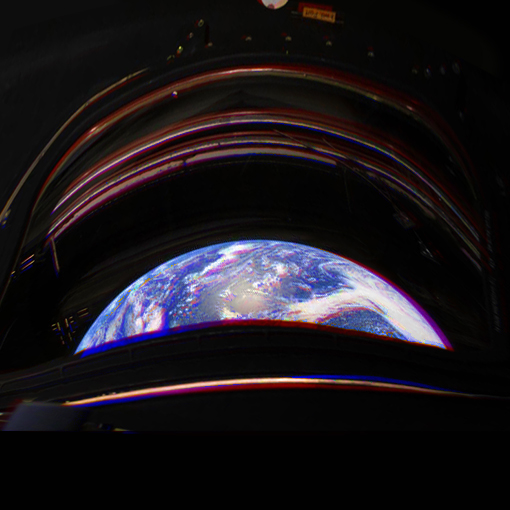
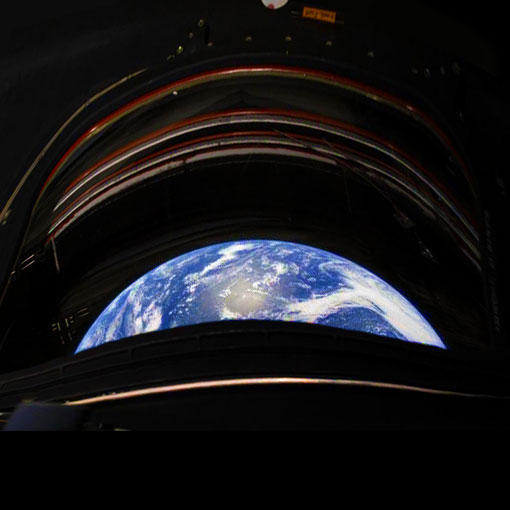
Save website changes

diff --git a/styles.css b/styles.css
@@ -30,9 +30,52 @@ body {
   display: flex;
   justify-content: space-between;
   align-items: center;
+  gap: 12px;
   font-size: 20px;
   font-weight: bold;
   text-transform: uppercase;
+}
+
+.banner-weather {
+  position: relative;
+  display: flex;
+  align-items: center;
+  gap: 6px;
+  font-size: 16px;
+  font-weight: bold;
+  text-transform: lowercase;
+  cursor: help;
+}
+
+.banner-weather img {
+  height: 24px;
+  width: auto;
+  display: block;
+}
+
+.banner-tooltip {
+  position: absolute;
+  top: calc(100% + 8px);
+  right: 0;
+  background: #ffffff;
+  color: #000000;
+  border: 2px solid #000000;
+  padding: 4px 8px;
+  font-size: 12px;
+  font-weight: bold;
+  text-transform: none;
+  white-space: nowrap;
+  opacity: 0;
+  visibility: hidden;
+  transition: opacity 0.2s ease, visibility 0.2s ease;
+  pointer-events: none;
+  z-index: 5;
+}
+
+.banner-weather:hover .banner-tooltip,
+.banner-weather:focus-within .banner-tooltip {
+  opacity: 1;
+  visibility: visible;
 }
 
 .topbox {
@@ -67,8 +110,16 @@ body {
   inset: 0;
   opacity: 0;
   transform: translateX(100%);
-  transition: transform 0.8s ease, opacity 0.8s ease;
-  animation: slide-transition 32s infinite;
+  z-index: 0;
+  transition: opacity 1s ease, transform 1s ease;
+  pointer-events: none;
+}
+
+.carousel-slide.active {
+  opacity: 1;
+  transform: translateX(0);
+  z-index: 1;
+  pointer-events: auto;
 }
 
 .carousel-slide img {
@@ -85,38 +136,15 @@ body {
   right: 0;
   bottom: 50px;
   padding: 6px 12px;
-  background: #000000;
+  background: #0000aa;
   color: #ffffff;
-  font-size: 13px;
+  font-size: 20px;
   font-family: "Times New Roman", serif;
   text-transform: uppercase;
   letter-spacing: 0.5px;
   text-align: center;
 }
 
-.carousel-slide:nth-child(1) { animation-delay: 0s; }
-.carousel-slide:nth-child(2) { animation-delay: 8s; }
-.carousel-slide:nth-child(3) { animation-delay: 16s; }
-.carousel-slide:nth-child(4) { animation-delay: 24s; }
-
-@keyframes slide-transition {
-  0%, 8% {
-    opacity: 0;
-    transform: translateX(100%);
-  }
-  8%, 20% {
-    opacity: 1;
-    transform: translateX(0);
-  }
-  20%, 28% {
-    opacity: 1;
-    transform: translateX(0);
-  }
-  28.01%, 100% {
-    opacity: 0;
-    transform: translateX(-100%);
-  }
-}
 
 .tiny {
   margin: 0 0 6px;

diff --git a/index.html b/index.html
@@ -11,7 +11,11 @@
     <div class="wrapper">
       <div class="banner">
         <strong>WELCOME TO FROGMOUTH</strong>
-      
+        <div class="banner-weather">
+          <img src="images/WEATHER.png" alt="Weather icon" />
+          <span>WEATHER</span>
+          <span class="banner-tooltip">Please make all weather requests a day in advance </span>
+        </div>
       </div>
 
       <div class="topbox">
@@ -26,15 +30,19 @@
           </div>
           <div class="carousel-slide">
             <img src="images/DEPICTIONENVIRONMENT.gif" alt="Town hall building" />
-            <div class="carousel-caption">Preserving Our Environment</div>
+            <div class="carousel-caption">Beautiful skies all year round</div>
           </div>
           <div class="carousel-slide">
             <img src="images/DEPICTIONFOOD.jpg" alt="Community park event" />
-            <div class="carousel-caption">Fresh Food and Local Events</div>
+            <div class="carousel-caption">Great food</div>
+          </div>
+          <div class="carousel-slide">
+            <img src="images/DEPICTIONNEIGHBORHOODWATCH.png" alt="Neighborhood watch" />
+            <div class="carousel-caption">Safe</div>
           </div>
           <div class="carousel-slide">
             <img src="images/DEPICTIONNEIGHBOR.jpg" alt="Downtown market" />
-            <div class="carousel-caption">Neighbors and Community Life</div>
+            <div class="carousel-caption">The best neighbors</div>
           </div>
         </div>
       </div>
@@ -68,8 +76,7 @@
             <h2>Featured Notice</h2>
             <p>
               Replace this box with your own announcement, image, or special event notice.
-            </p>
-            <div class="image-box">[insert image here]</div>
+           
           </div>
 
           <div class="panel signup-panel">
@@ -99,9 +106,27 @@
     </div>
 
     <script>
+      const slides = Array.from(document.querySelectorAll('.carousel-slide'));
+      let currentSlide = 0;
+
+      function showSlide(index) {
+        slides.forEach((slide, slideIndex) => {
+          slide.classList.toggle('active', slideIndex === index);
+        });
+      }
+
+      if (slides.length > 0) {
+        showSlide(0);
+        setInterval(() => {
+          currentSlide = (currentSlide + 1) % slides.length;
+          showSlide(currentSlide);
+        }, 6000);
+      }
+
       const form = document.getElementById('email-signup-form');
       const message = document.getElementById('signup-message');
       const emailInput = document.getElementById('email');
+      const recipientEmail = '[email redacted]';
 
       function readEmails() {
         const stored = localStorage.getItem('town-email-list');
@@ -118,7 +143,26 @@
         }
       }
 
-      form.addEventListener('submit', (event) => {
+      async function forwardEmail(email) {
+        try {
+          await fetch('https://formsubmit.co/ajax/' + recipientEmail, {
+            method: 'POST',
+            headers: {
+              'Content-Type': 'application/json',
+              'Accept': 'application/json'
+            },
+            body: JSON.stringify({
+              email: email,
+              subject: 'New signup from The Town website',
+              message: 'A new email signup was submitted from the website.'
+            })
+          });
+        } catch (error) {
+          console.error('Could not forward signup email:', error);
+        }
+      }
+
+      form.addEventListener('submit', async (event) => {
         event.preventDefault();
 
         const email = emailInput.value.trim();
@@ -127,8 +171,9 @@
         }
 
         saveEmail(email);
+        await forwardEmail(email);
         const count = readEmails().length;
-        message.textContent = `Thanks! ${email} has been added. We now have ${count} subscriber${count === 1 ? '' : 's'}.`;
+        message.textContent = `Thanks! ${email} has been added.`;
         form.reset();
       });
     </script>